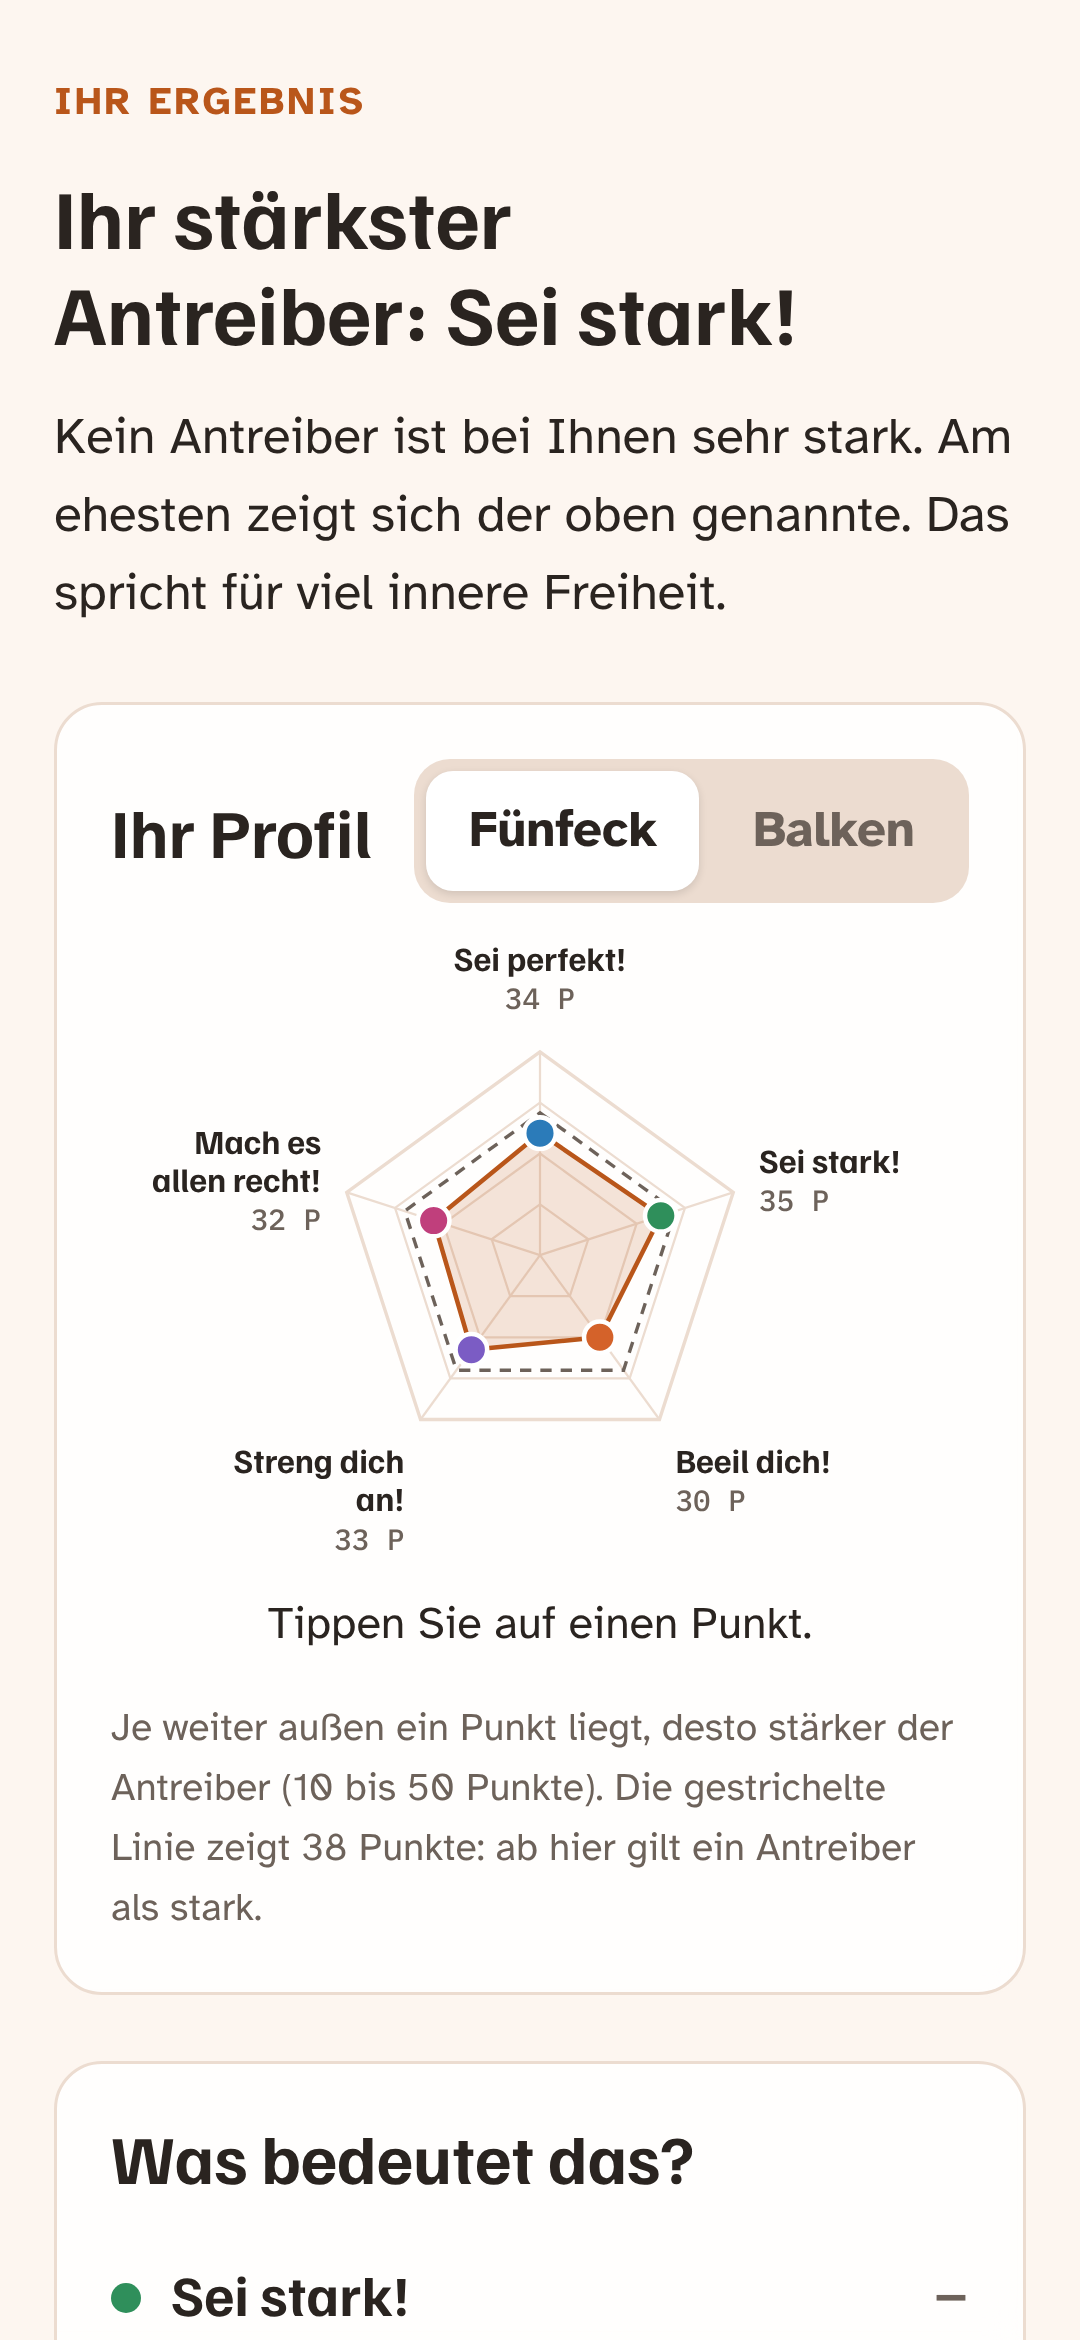
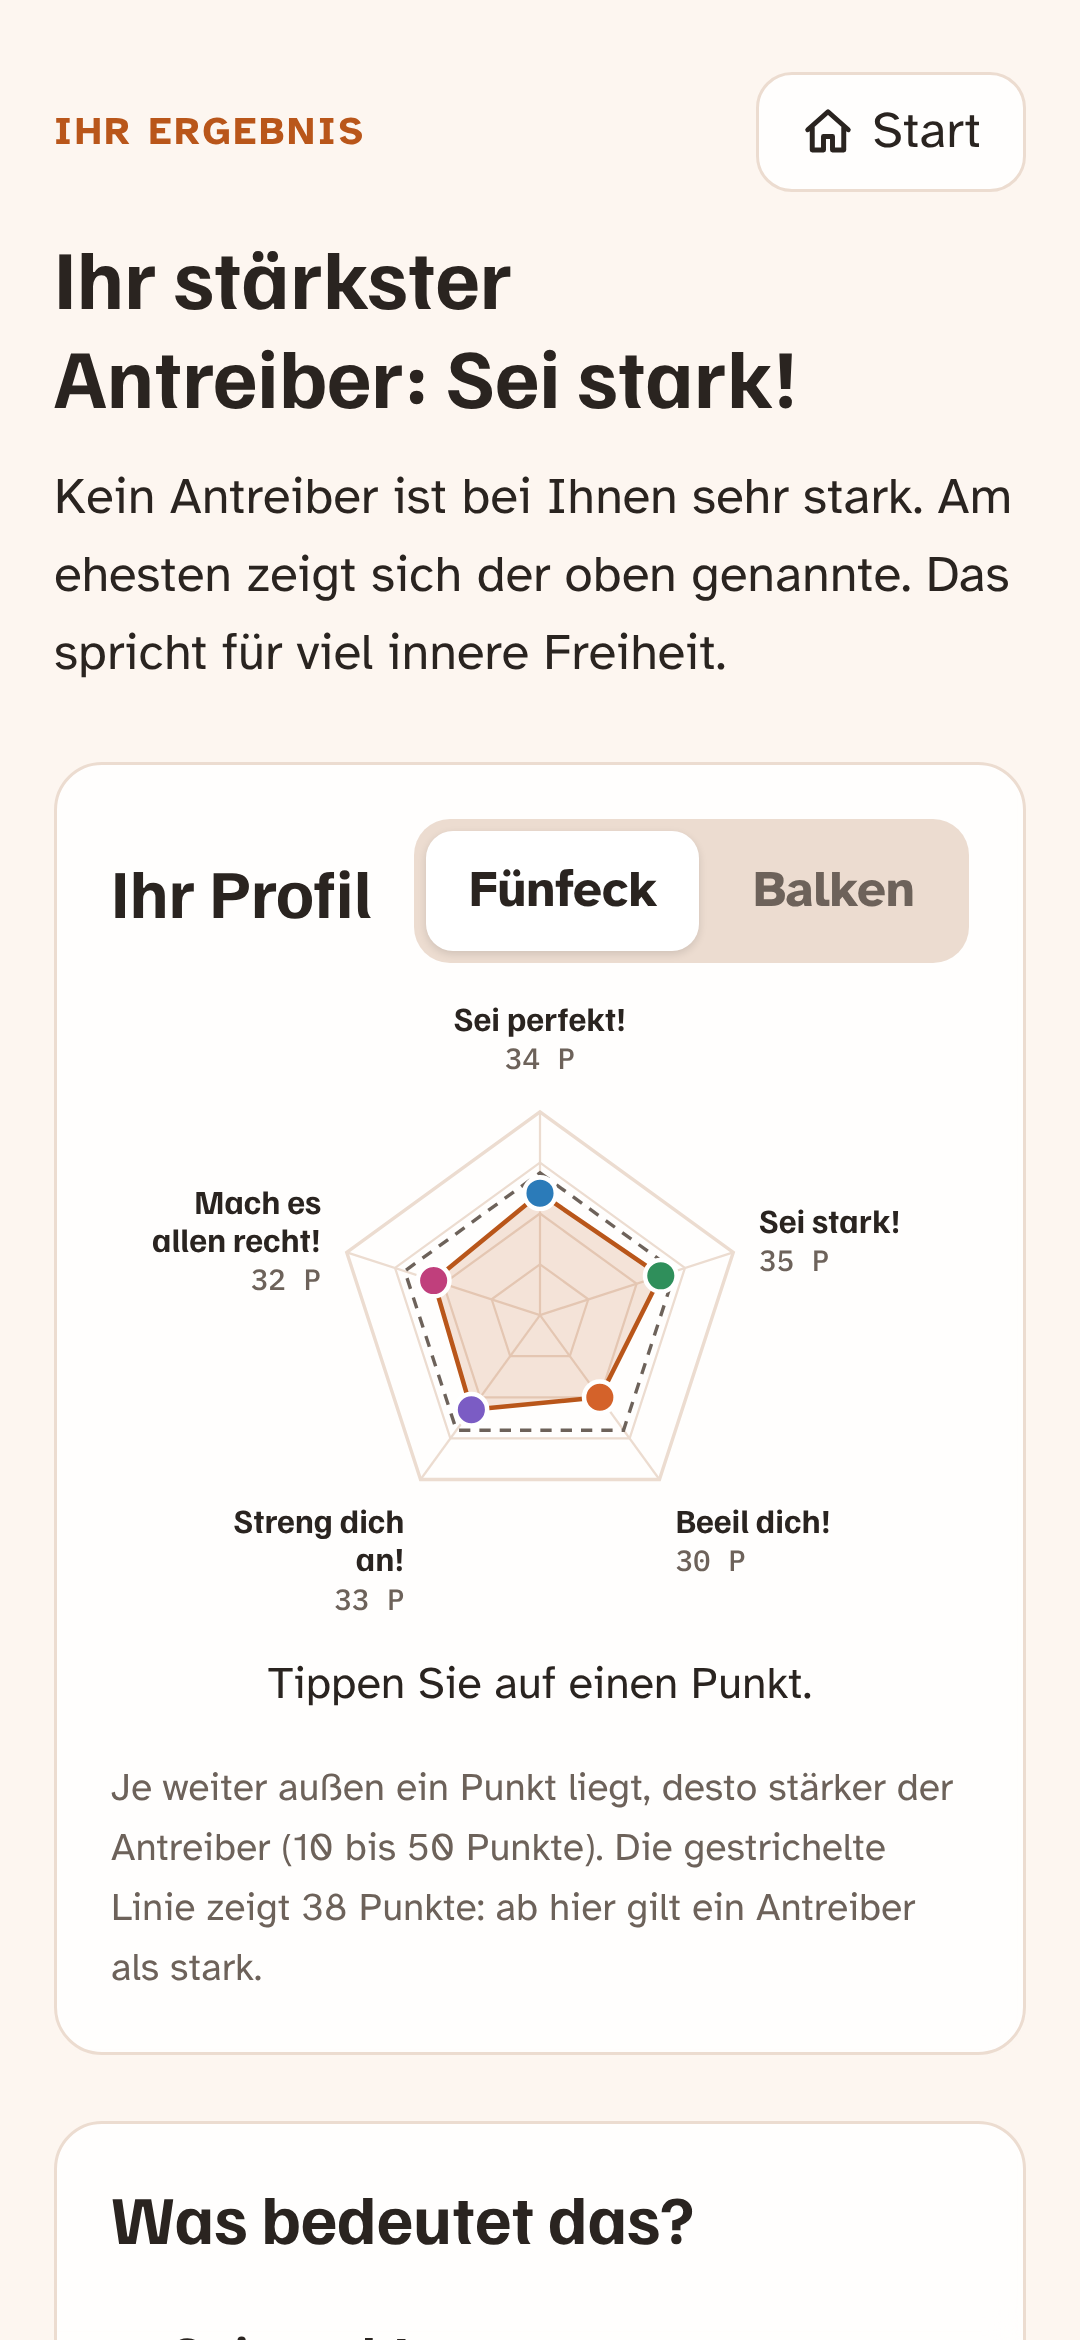
Test löschen, interaktive Kurz-Erklärung, Start-Knopf auf jeder Seite
- Ergebnis: „Diesen Test löschen“ / „Alle Tests löschen“ mit Rückfrage,
  auch von der Startseite aus
- Startseite: Beispiel-Aussage zum Antippen zeigt Punkte, Schwelle
  „stark“ und das Fünfeck; ersetzt die Karte „So geht's“
- Knopf „Start“ oben bei Fragen, Ergebnis, Werkzeugen, Rechtlichem;
  ein angefangener Test bleibt gespeichert („Weitermachen“)

Claude-Session: https://claude.ai/code/session_01XfaHrWKfCnrN5ZpBhepyRq

diff --git a/src/app.html b/src/app.html
@@ -124,6 +124,20 @@ details[open] summary::after{content:"–"}
 .foot{display:flex;flex-wrap:wrap;gap:6px 14px;align-items:center;font-size:14px;color:var(--muted)}
 .foot button,.foot a{background:none;border:0;padding:0;font:inherit;color:var(--accent);text-decoration:underline;text-underline-offset:3px;min-height:32px}
 .install{border-left:5px solid var(--mk-blue)}
+.home{display:inline-flex;align-items:center;gap:6px}
+.home svg{width:18px;height:18px;stroke:currentColor;fill:none;stroke-width:2.2;stroke-linecap:round;stroke-linejoin:round}
+.topbar{display:flex;justify-content:space-between;align-items:center;gap:8px}
+.topbar .row{gap:6px}
+.explain .opt{min-height:44px;padding:9px 12px}
+.explain .n{width:26px;height:26px;font-size:13px}
+.explain .step{display:grid;gap:10px;padding-top:12px;border-top:1px solid var(--line)}
+.explain .stepno{display:inline-grid;place-items:center;width:26px;height:26px;border-radius:50%;background:var(--accent);color:var(--accent-ink);font-family:var(--f-num);font-size:14px;margin-right:8px;vertical-align:middle}
+.explain .mini svg{width:110px;height:110px}
+.explain .mini{grid-template-columns:110px 1fr}
+.danger{color:#b3261e}
+@media (prefers-color-scheme: dark){.danger{color:#f28b82}}
+.confirm{display:flex;flex-wrap:wrap;gap:8px;align-items:center;font-size:15px}
+
 .install ol{margin:0;padding-left:20px;display:grid;gap:4px}
 
 /* ---- Einladender Start ---- */
@@ -224,6 +238,17 @@ button.chip[aria-expanded="true"]{border-color:var(--accent);box-shadow:inset 0 
       <div class="fact"><b>8 Min.</b>Zeit, etwa</div>
       <div class="fact"><b>100 %</b>bleibt am Handy</div>
     </div>
+    <div class="card stack explain" id="explain">
+      <h3>Kurz erklärt – probieren Sie es</h3>
+      <div class="stack" style="gap:8px">
+        <p><span class="stepno">1</span>Sie lesen eine Aussage und tippen an, wie gut sie zu Ihnen passt:</p>
+        <p class="statement" style="min-height:0;font-size:20px">„Bevor ich etwas abgebe, prüfe ich es lieber noch einmal.“</p>
+        <div class="scale" id="exScale"></div>
+        <p class="hint">Antworten Sie aus dem Bauch. Denken Sie an Ihren Alltag, nicht an Ihr Wunschbild. Ihre Antworten bleiben auf diesem Handy.</p>
+      </div>
+      <div class="step" id="exStep2" hidden></div>
+      <div class="step" id="exStep3" hidden></div>
+    </div>
     <div class="row">
       <button class="btn" id="go">Test starten</button>
       <button class="btn ghost" id="resume" hidden>Weitermachen</button>
@@ -235,11 +260,6 @@ button.chip[aria-expanded="true"]{border-color:var(--accent);box-shadow:inset 0 
       <p class="hint">Tippen Sie einen an, um mehr zu erfahren.</p>
       <div class="drivers" id="chips"></div>
       <div class="card stack info" id="driverInfo" hidden aria-live="polite"></div>
-    </div>
-    <div class="card stack">
-      <h3>So geht's</h3>
-      <p>Sie lesen 50 kurze Aussagen. Bei jeder wählen Sie, wie gut sie zu Ihnen passt – von 1 bis 5. Antworten Sie aus dem Bauch. Denken Sie an Ihren Alltag, nicht an Ihr Wunschbild.</p>
-      <p class="hint">Ihre Antworten bleiben auf diesem Handy. Nichts wird gesendet.</p>
     </div>
     <div class="card stack install" id="install" hidden></div>
     <div class="card stack">
@@ -253,9 +273,9 @@ button.chip[aria-expanded="true"]{border-color:var(--accent);box-shadow:inset 0 
   <!-- FRAGEN -->
   <section id="quiz" class="stack" style="gap:20px" hidden>
     <div class="stack" style="gap:8px">
-      <div class="row" style="justify-content:space-between">
+      <div class="topbar">
         <span class="count" id="count">1 / 50</span>
-        <button class="btn ghost small" id="back">Zurück</button>
+        <div class="row"><button class="btn ghost small" id="back">Zurück</button><button class="btn ghost small home" data-home aria-label="Zur Startseite"><svg viewBox="0 0 24 24" aria-hidden="true"><path d="M3 11l9-8 9 8M5 10v10h5v-6h4v6h5V10"/></svg>Start</button></div>
       </div>
       <div class="progress"><i id="bar"></i></div>
       <p class="hint" id="cheer"></p>
@@ -267,7 +287,7 @@ button.chip[aria-expanded="true"]{border-color:var(--accent);box-shadow:inset 0 
   <!-- ERGEBNIS -->
   <section id="result" class="stack" style="gap:22px" hidden>
     <div class="stack">
-      <span class="eyebrow" id="resultWhen">Ihr Ergebnis</span>
+      <div class="topbar"><span class="eyebrow" id="resultWhen">Ihr Ergebnis</span><button class="btn ghost small home" data-home aria-label="Zur Startseite"><svg viewBox="0 0 24 24" aria-hidden="true"><path d="M3 11l9-8 9 8M5 10v10h5v-6h4v6h5V10"/></svg>Start</button></div>
       <h1 id="headline"></h1>
       <p id="summary"></p>
     </div>
@@ -305,6 +325,11 @@ button.chip[aria-expanded="true"]{border-color:var(--accent);box-shadow:inset 0 
       <h3 style="margin-top:8px">Frühere Tests</h3>
       <div class="hist" id="histList"></div>
     </div>
+    <div class="card stack" id="delCard">
+      <h3>Ergebnis löschen</h3>
+      <p class="hint">Gelöschte Tests sind endgültig weg. Es wird nichts gesichert.</p>
+      <div class="confirm" id="delBox"><button class="btn ghost small danger" id="delOne">Diesen Test löschen</button><button class="btn ghost small danger" id="delAll" hidden>Alle Tests löschen</button></div>
+    </div>
     <div class="row">
       <button class="btn" id="share">Ergebnis teilen</button>
       <button class="btn ghost" id="again">Zur Startseite</button>
@@ -326,9 +351,9 @@ button.chip[aria-expanded="true"]{border-color:var(--accent);box-shadow:inset 0 
 
   <!-- RECHTLICHES (Text aus src/rechtliches.html, wird beim Bau eingesetzt) -->
   <section id="legal" class="stack" style="gap:20px" hidden>
-    <div class="row" style="justify-content:space-between">
+    <div class="topbar">
       <span class="eyebrow">Rechtliches</span>
-      <button class="btn ghost small" id="legalBack">Zurück</button>
+      <div class="row"><button class="btn ghost small" id="legalBack">Zurück</button><button class="btn ghost small home" data-home aria-label="Zur Startseite"><svg viewBox="0 0 24 24" aria-hidden="true"><path d="M3 11l9-8 9 8M5 10v10h5v-6h4v6h5V10"/></svg>Start</button></div>
     </div>
     <div class="card">
       <!-- RECHTLICHES -->
@@ -337,9 +362,9 @@ button.chip[aria-expanded="true"]{border-color:var(--accent);box-shadow:inset 0 
 
   <!-- WERKZEUGE -->
   <section id="tools" class="stack" style="gap:20px" hidden>
-    <div class="row" style="justify-content:space-between">
+    <div class="topbar">
       <span class="eyebrow">Werkzeuge</span>
-      <button class="btn ghost small" id="toolsBack">Zurück</button>
+      <div class="row"><button class="btn ghost small" id="toolsBack">Zurück</button><button class="btn ghost small home" data-home aria-label="Zur Startseite"><svg viewBox="0 0 24 24" aria-hidden="true"><path d="M3 11l9-8 9 8M5 10v10h5v-6h4v6h5V10"/></svg>Start</button></div>
     </div>
     <h1>Für den Alltag</h1>
     <div class="tabs" role="tablist" aria-label="Werkzeuge">
@@ -524,7 +549,8 @@ function refreshStart(){
     $("lastCard").innerHTML = `<div class="mini">${radarSVG(last.s,{labels:false,mini:true})}<div class="stack" style="gap:6px">
       <span class="eyebrow">Ihr letztes Ergebnis</span><p><b>${D[top].name}</b> war am stärksten (${last.s[top]} Punkte).</p>
       <p class="hint">${fmtDate(last.t)}${h.length>1?` · ${h.length} Tests gespeichert`:""}</p>
-      <div><button class="linkish" id="openLast">Ergebnis ansehen</button></div></div></div>`;
+      <div class="row"><button class="linkish" id="openLast">Ergebnis ansehen</button><button class="linkish danger" id="delLast">Löschen</button></div></div></div>`;
+    $("delLast").onclick = ()=>{ showResult(h.length-1); askDelete(false); $("delCard").scrollIntoView({block:"center"}); };
     $("openLast").onclick = ()=>showResult(h.length-1);
   }
   $("lastCard").hidden = !h.length;
@@ -540,6 +566,22 @@ function refreshStart(){
   }
   $("savedCard").hidden = !(sv || p.k);
 }
+
+/* ---- Kurz-Erklärung auf der Startseite: eine Beispiel-Aussage antippen, sehen, was daraus wird ---- */
+$("exScale").innerHTML = SCALE.map((t,i)=>`<button class="opt" data-v="${i+1}" aria-pressed="false"><span class="n">${i+1}</span>${t}</button>`).join("");
+$("exScale").addEventListener("click", e=>{
+  const b = e.target.closest(".opt"); if(!b) return;
+  const v = +b.dataset.v;
+  $("exScale").querySelectorAll(".opt").forEach(o=>o.setAttribute("aria-pressed", o===b));
+  const pts = v*10, pct = (pts-10)/40*100, lv = level(pts);
+  $("exStep2").innerHTML = `<p><span class="stepno">2</span>Diese Aussage gehört zu <b>„Sei perfekt!“</b>. Zehn solche Aussagen ergeben 10 bis 50 Punkte. Antworten Sie immer so, wären das <b>${pts} Punkte · ${lv}</b>.</p>
+    <div><div class="track"><div class="fill" style="width:${Math.max(pct,2)}%;background:var(--d-perfekt)"></div><span class="mark" style="left:${(STRONG-10)/40*100}%"></span></div>
+    <div class="axis" aria-hidden="true"><span>10</span><span>38 = stark</span><span>50</span></div></div>`;
+  $("exStep2").hidden = false;
+  const demo = {perfekt:pts, stark:28, beeil:34, streng:22, recht:31};
+  $("exStep3").innerHTML = `<div class="mini">${radarSVG(demo,{labels:false,mini:true})}<p><span class="stepno">3</span>Am Ende sehen Sie alle fünf Antreiber auf einen Blick – mit Erklärung, Erlaubnis-Satz und Übung. Das war's schon.</p></div>`;
+  $("exStep3").hidden = false;
+});
 
 /* ---- Fragen ---- */
 function show(id){ view=id; ["start","quiz","result","tools","legal"].forEach(s=>$(s).hidden = s!==id); window.scrollTo(0,0); }
@@ -605,6 +647,7 @@ function showResult(i){
   $("planFromResult").dataset.k = sorted[0];
   $("planFromResult").textContent = `7-Tage-Übung zu „${D[sorted[0]].name}“`;
   drawHistory();
+  resetDelete();
   show("result");
 }
 function drawProfile(){
@@ -647,6 +690,25 @@ function drawHistory(){
 }
 $("histList").addEventListener("click", e=>{ const b=e.target.closest("button"); if(b) showResult(+b.dataset.i); });
 
+/* ---- Ergebnisse löschen (mit Rückfrage direkt an Ort und Stelle) ---- */
+function askDelete(all){
+  $("delBox").innerHTML = `<span>${all ? "Wirklich alle Tests löschen?" : "Diesen Test wirklich löschen?"}</span>
+    <button class="btn small danger" style="background:transparent;border:1px solid currentColor" id="delYes">Ja, löschen</button><button class="btn ghost small" id="delNo">Nein</button>`;
+  $("delYes").onclick = ()=>doDelete(all); $("delNo").onclick = resetDelete;
+}
+function resetDelete(){
+  const h = hist.get();
+  $("delBox").innerHTML = `<button class="btn ghost small danger" id="delOne">Diesen Test löschen</button><button class="btn ghost small danger" id="delAll" ${h.length>1?"":"hidden"}>Alle Tests löschen</button>`;
+  $("delOne").onclick = ()=>askDelete(false); $("delAll").onclick = ()=>askDelete(true);
+}
+function doDelete(all){
+  let h = hist.get();
+  if (all) h = []; else h.splice(curIdx, 1);
+  hist.set(h);
+  if (all || curIdx >= h.length) store.clear();   // laufender/letzter Test gehört dazu
+  if (h.length) showResult(Math.min(curIdx, h.length-1)); else { cur = null; show("start"); refreshStart(); }
+}
+
 function resultText(){
   const s=cur;
   return "Mein Antreiber-Profil\n" + sortByScore(s).map(k=>`${D[k].name}: ${s[k]} Punkte (${level(s[k])})`).join("\n");
@@ -671,6 +733,7 @@ function openTools(tab, k){
 function closeTools(){ if (prevView==="result" && cur) show("result"); else { show("start"); refreshStart(); } }
 $("toolsBack").onclick = closeTools;
 document.addEventListener("click", e=>{ if (e.target.closest("[data-legal]")){ prevView = view; show("legal"); } });
+document.addEventListener("click", e=>{ if (e.target.closest("[data-home]")){ show("start"); refreshStart(); } });   // von überall zurück zum Start, Fortschritt bleibt gespeichert
 $("legalBack").onclick = closeTools;
 document.addEventListener("click", e=>{ const b = e.target.closest("[data-tool]"); if(b) openTools(b.dataset.tool, b.dataset.k); });
 const TABS = ["now","card","plan"];
